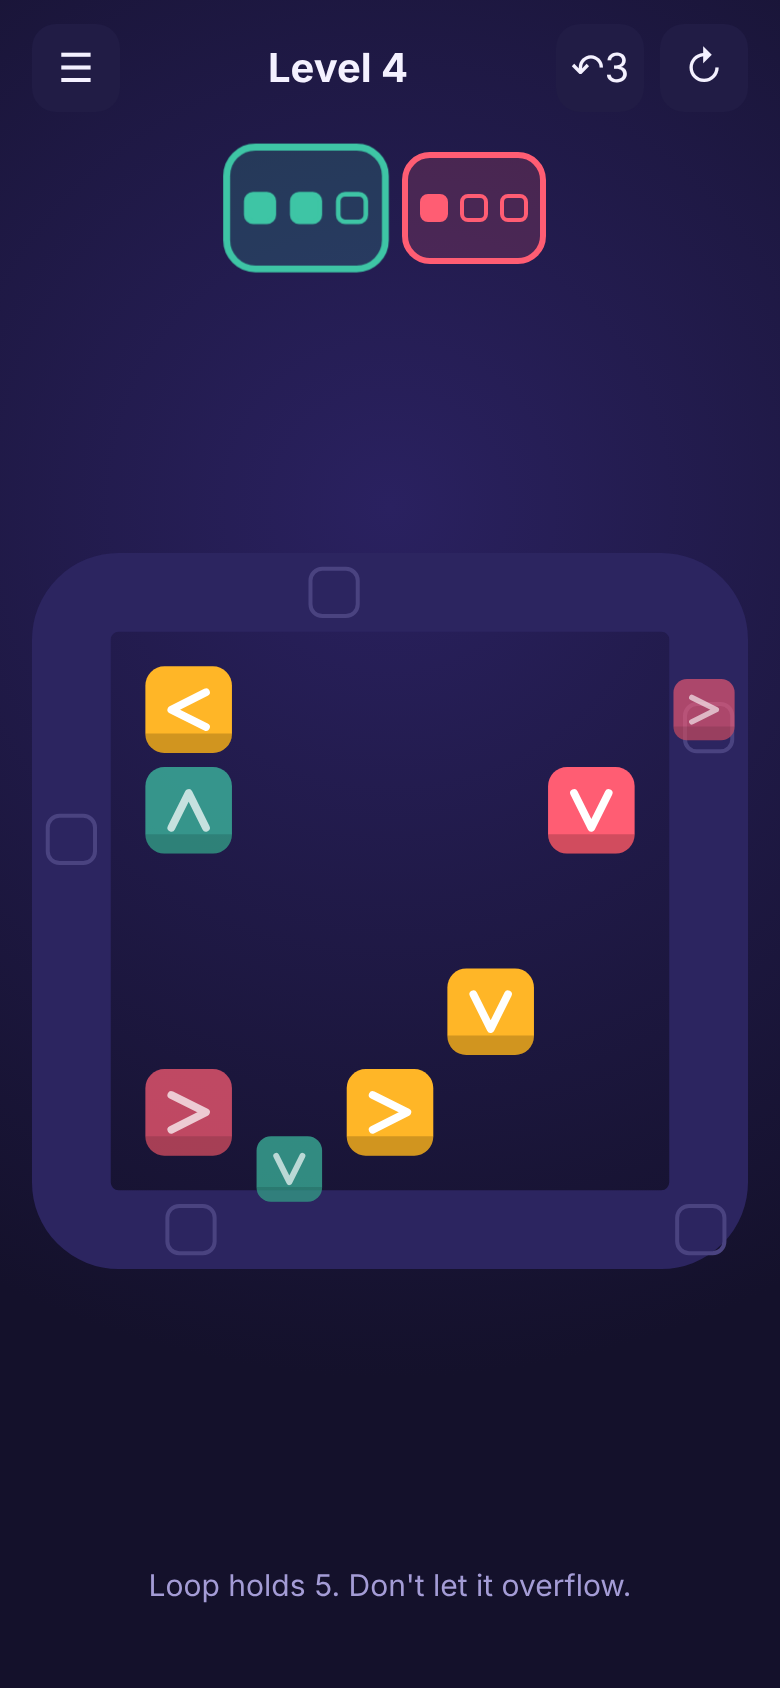
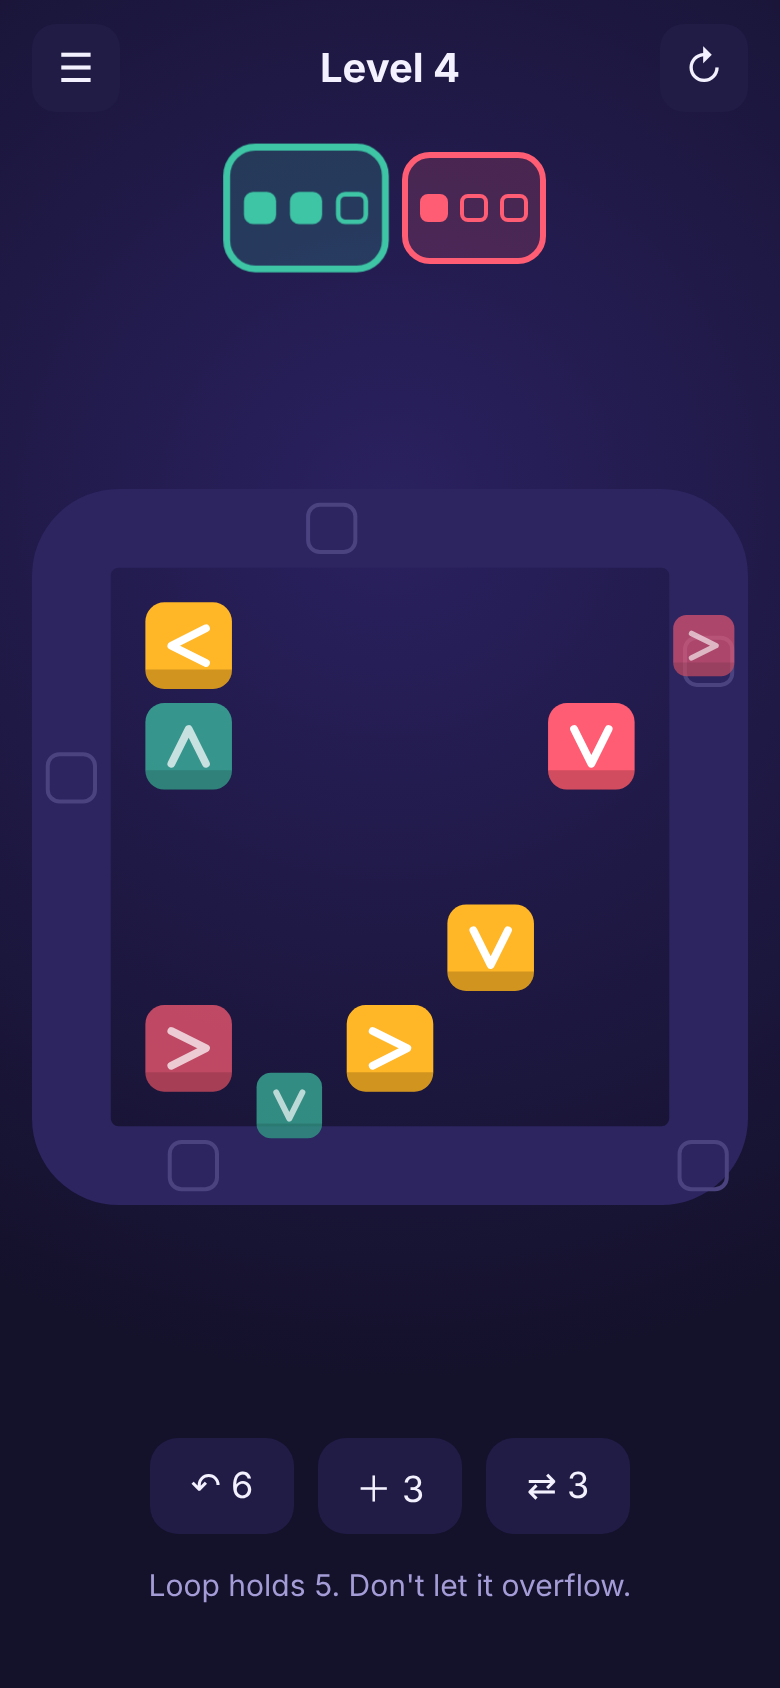
L08 Boosters
Claude-Session: https://claude.ai/code/session_01HnjHBJqgza3GCwRNRwt7az

diff --git a/loopline/src/main.js b/loopline/src/main.js
@@ -1,18 +1,18 @@
-import { canTap, createGame, stars, tap, undo } from './core/game.js'
+import { canTap, createGame, reverse, stars, tap, undo, widen } from './core/game.js'
 import { levelFor } from './core/levels.js'
 import { createBoard } from './ui/board.js'
 import { feedback, setMuted } from './ui/feedback.js'
-import { loadProgress, recordWin, saveProgress } from './ui/progress.js'
+import { boosterKinds, loadProgress, recordWin, saveProgress, spendBooster } from './ui/progress.js'
 
 const $ = id => document.getElementById(id)
 const canvas = $('board')
 const board = createBoard(canvas)
-const undoLimit = 3
+const boosterIcons = { undo: '↶', widen: '＋', reverse: '⇄' }
+const boosterRules = { undo, widen, reverse }
 
 let progress = loadProgress()
 let level
 let state
-let undosLeft
 let effects = []
 
 const show = screen => {
@@ -56,15 +56,17 @@ const quake = () => {
 
 const renderHud = () => {
   $('level-label').textContent = `Level ${level.number}`
-  $('undo').disabled = !undosLeft || !state.history.length || state.status !== 'playing'
-  $('undo').textContent = `↶${undosLeft}`
+  for (const kind of boosterKinds) {
+    const count = progress.boosters[kind]
+    $(kind).textContent = `${boosterIcons[kind]} ${count}`
+    $(kind).disabled = !count || state.status !== 'playing' || (kind === 'undo' && !state.history.length)
+  }
   $('hint').textContent = level.hint ?? `Loop holds ${state.capacity}. Don't let it overflow.`
 }
 
 const start = number => {
   level = levelFor(number)
   state = createGame(level)
-  undosLeft = undoLimit
   effects = []
   renderBins()
   renderHud()
@@ -139,12 +141,14 @@ $('back').onclick = () => show('title')
 $('home').onclick = () => show('title')
 $('result-menu').onclick = () => show('title')
 $('restart').onclick = () => start(level.number)
-$('undo').onclick = () => {
-  if (!undosLeft || !state.history.length) return
-  undosLeft -= 1
-  state = undo(state)
-  renderBins()
-  renderHud()
+for (const kind of boosterKinds) {
+  $(kind).onclick = () => {
+    if (!progress.boosters[kind] || state.status !== 'playing') return
+    progress = spendBooster(progress, kind)
+    state = boosterRules[kind](state)
+    renderBins()
+    renderHud()
+  }
 }
 $('sound').onclick = () => {
   progress = saveProgress({ ...progress, muted: !progress.muted })

diff --git a/loopline/test/boosters.test.js b/loopline/test/boosters.test.js
@@ -1,0 +1,47 @@
+import assert from 'node:assert/strict'
+import { test } from 'node:test'
+import { createGame, reverse, stars, tap, undo, widen } from '../src/core/game.js'
+import { recordWin, spendBooster } from '../src/ui/progress.js'
+
+const [red, blue, green] = ['#r', '#b', '#g']
+const level = {
+  size: 3,
+  capacity: 1,
+  bins: 1,
+  queue: [red, blue, green],
+  tiles: [
+    { x: 0, y: 0, color: blue, dir: 'up' },
+    { x: 1, y: 0, color: green, dir: 'up' },
+    { x: 2, y: 0, color: red, dir: 'up' },
+  ],
+}
+
+test('undo takes back the last tap', () => {
+  const start = createGame(level)
+  assert.deepEqual(undo(tap(start, 0, 0)).belt, start.belt)
+})
+
+test('an extra slot lets the loop hold one more tile and survives undo', () => {
+  const tight = tap(tap(createGame(level), 0, 0), 1, 0)
+  assert.equal(tight.status, 'lost')
+  const wide = tap(tap(widen(createGame(level)), 0, 0), 1, 0)
+  assert.equal(wide.status, 'playing')
+  assert.equal(undo(wide).capacity, 2)
+})
+
+test('an extra slot does not raise the stars bar', () => {
+  assert.equal(stars({ capacity: 4, widened: 1, peak: 2 }), 2)
+  assert.equal(stars({ capacity: 4, widened: 0, peak: 2 }), 3)
+})
+
+test('reverse flips the order of the colors still to come', () => {
+  assert.deepEqual(reverse(createGame({ ...level, queue: [red, blue, green, '#y'] })).queue, ['#y', green, blue])
+})
+
+test('new stars earn boosters in turn and spending one counts down', () => {
+  const start = { unlocked: 1, stars: {}, boosters: { undo: 0, widen: 0, reverse: 0 } }
+  const won = recordWin(start, 1, 3)
+  assert.deepEqual(won.boosters, { undo: 1, widen: 1, reverse: 1 })
+  assert.deepEqual(recordWin(won, 1, 2).boosters, won.boosters)
+  assert.equal(spendBooster(won, 'widen').boosters.widen, 0)
+})

diff --git a/loopline/src/ui/progress.js b/loopline/src/ui/progress.js
@@ -1,5 +1,9 @@
 const key = 'loopline.progress'
-const empty = { unlocked: 1, stars: {}, muted: false }
+export const boosterKinds = ['undo', 'widen', 'reverse']
+
+const empty = { unlocked: 1, stars: {}, muted: false, boosters: { undo: 3, widen: 1, reverse: 1 } }
+
+const totalStars = stars => Object.values(stars).reduce((sum, n) => sum + n, 0)
 
 export const loadProgress = () => {
   try {
@@ -16,9 +20,12 @@ export const saveProgress = progress => {
   return progress
 }
 
-export const recordWin = (progress, level, stars) =>
-  saveProgress({
-    ...progress,
-    unlocked: Math.max(progress.unlocked, level + 1),
-    stars: { ...progress.stars, [level]: Math.max(progress.stars[level] ?? 0, stars) },
-  })
+export const recordWin = (progress, level, earned) => {
+  const stars = { ...progress.stars, [level]: Math.max(progress.stars[level] ?? 0, earned) }
+  const boosters = { ...progress.boosters }
+  for (let n = totalStars(progress.stars); n < totalStars(stars); n++) boosters[boosterKinds[n % 3]] += 1
+  return saveProgress({ ...progress, unlocked: Math.max(progress.unlocked, level + 1), stars, boosters })
+}
+
+export const spendBooster = (progress, kind) =>
+  saveProgress({ ...progress, boosters: { ...progress.boosters, [kind]: progress.boosters[kind] - 1 } })

diff --git a/loopline/src/core/game.js b/loopline/src/core/game.js
@@ -56,6 +56,7 @@ export const createGame = ({ size, tiles, queue, bins, capacity }) =>
     belt: [],
     moves: 0,
     peak: 0,
+    widened: 0,
     history: [],
   })
 
@@ -81,7 +82,16 @@ export const tap = (state, x, y) => {
 export const undo = state => {
   const previous = state.history.at(-1)
   if (!previous) return state
-  return settle({ ...previous, history: state.history.slice(0, -1), last: null })
+  const { capacity, widened } = state
+  return settle({ ...previous, capacity, widened, history: state.history.slice(0, -1), last: null })
 }
 
-export const stars = state => (state.peak <= state.capacity - 2 ? 3 : state.peak <= state.capacity - 1 ? 2 : 1)
+export const widen = state =>
+  state.status === 'playing' ? { ...state, capacity: state.capacity + 1, widened: state.widened + 1 } : state
+
+export const reverse = state => (state.status === 'playing' ? { ...state, queue: [...state.queue].reverse() } : state)
+
+export const stars = state => {
+  const base = state.capacity - state.widened
+  return state.peak <= base - 2 ? 3 : state.peak <= base - 1 ? 2 : 1
+}

diff --git a/loopline/index.html b/loopline/index.html
@@ -13,11 +13,15 @@
       <header class="hud">
         <button type="button" id="home" aria-label="Menu">☰</button>
         <h1 id="level-label">Level 1</h1>
-        <button type="button" id="undo" aria-label="Undo">↶</button>
         <button type="button" id="restart" aria-label="Restart">↻</button>
       </header>
       <section id="bins" class="bins" aria-label="Bins"></section>
       <canvas id="board" aria-label="Board"></canvas>
+      <nav class="boosters" aria-label="Boosters">
+        <button type="button" id="undo" aria-label="Undo">↶</button>
+        <button type="button" id="widen" aria-label="Extra loop slot">＋</button>
+        <button type="button" id="reverse" aria-label="Reverse bin order">⇄</button>
+      </nav>
       <p id="hint" class="hint"></p>
     </main>
 

diff --git a/loopline/src/ui/style.css b/loopline/src/ui/style.css
@@ -42,7 +42,7 @@ button {
 
 .hud {
   display: grid;
-  grid-template-columns: 44px 1fr 44px 44px;
+  grid-template-columns: 44px 1fr 44px;
   gap: 8px;
   align-items: center;
   width: 100%;
@@ -63,6 +63,21 @@ button {
   font-size: 20px;
 }
 
+.boosters {
+  display: flex;
+  gap: 12px;
+  padding: 8px 0;
+}
+
+.boosters button {
+  min-width: 72px;
+  height: 48px;
+  border-radius: 14px;
+  background: var(--panel);
+  font-size: 18px;
+}
+
+.boosters button:disabled,
 .hud button:disabled {
   opacity: 0.35;
 }

diff --git a/loopline/BACKLOG.md b/loopline/BACKLOG.md
@@ -4,10 +4,6 @@ The build agent takes items from the top of **Next**, one commit each. Scheduled
 
 ## Next
 
-### L08 Boosters
-
-Undo, extra belt slot, reverse belt direction; earned by stars, counts persisted. Done when each booster has a rule test and a button.
-
 ### L09 Daily Loop
 
 Seed from the UTC date, one attempt record per day, streak, share text built from emoji (moves, stars, a small ring glyph) through `navigator.share` with clipboard fallback. Done when two runs on the same date produce the same level and share text format is tested.
@@ -31,6 +27,7 @@ Manifest, SVG icon, service worker caching the app shell, offline play. Done whe
 
 - Locked tiles open after a count of moves (badge on the tile) rather than by a neighbour or key; generator caps each lock at the tile's position in its proven order so solvability holds
 - The solver's optimum (lowest loop peak) is 0 on most generated levels, so three stars are easy; a tighter bin order is a candidate difficulty knob
+- Reverse belt has no effect while bins pull instantly, so the booster reverses the order of the colors still queued for the bins; an extra slot survives undo and does not lower the stars bar; each new star earns one booster in turn (undo, slot, reverse), start stock 3/1/1
 
 ## Done
 
@@ -41,6 +38,7 @@ Manifest, SVG icon, service worker caching the app shell, offline play. Done whe
 - L05 Game flow (2026-10-31, built in the conversation)
 - L06 Difficulty curve and tutorial (2026-10-31)
 - L07 Juice (2026-10-31)
+- L08 Boosters (2026-10-31)
 
 MVP rule: every commit keeps `npm test`, `npm run check` and `npm run e2e` green; a run that breaks e2e reverts its own change.
 

diff --git a/loopline/MEMORY.md b/loopline/MEMORY.md
@@ -9,6 +9,7 @@ Rewritten by each run; keep it short.
 - Generator places tiles so the reverse placement order is always arrow-solvable; the solver then checks the bin queue; levels are deterministic by number
 - `window.loopline` exposes `level`, `status` and `pointFor` for `e2e/play.js`; keep it working
 - Feedback events `tap`, `slide`, `blocked`, `clear`, `win`, `lose` in `src/ui/feedback.js`, guarded for Node; sparks and quake are CSS in `main.js`, off under reduced motion
+- Boosters: rules `undo`, `widen`, `reverse` in `game.js`; stock in `progress.boosters` (`recordWin`, `spendBooster`); buttons below the board share ids with the kinds
 - Cloud runs: Node 22 works; Chromium at `/opt/pw-browsers/chromium-1243/chrome-linux64/chrome` (override with `CHROMIUM`); `playwright-core` only, no browser download
 - Biome also formats Markdown; run `npm run fix` before committing
 - Fetch `poc` with `git fetch origin +refs/heads/poc:refs/remotes/origin/poc` before `git checkout -B poc origin/poc`
